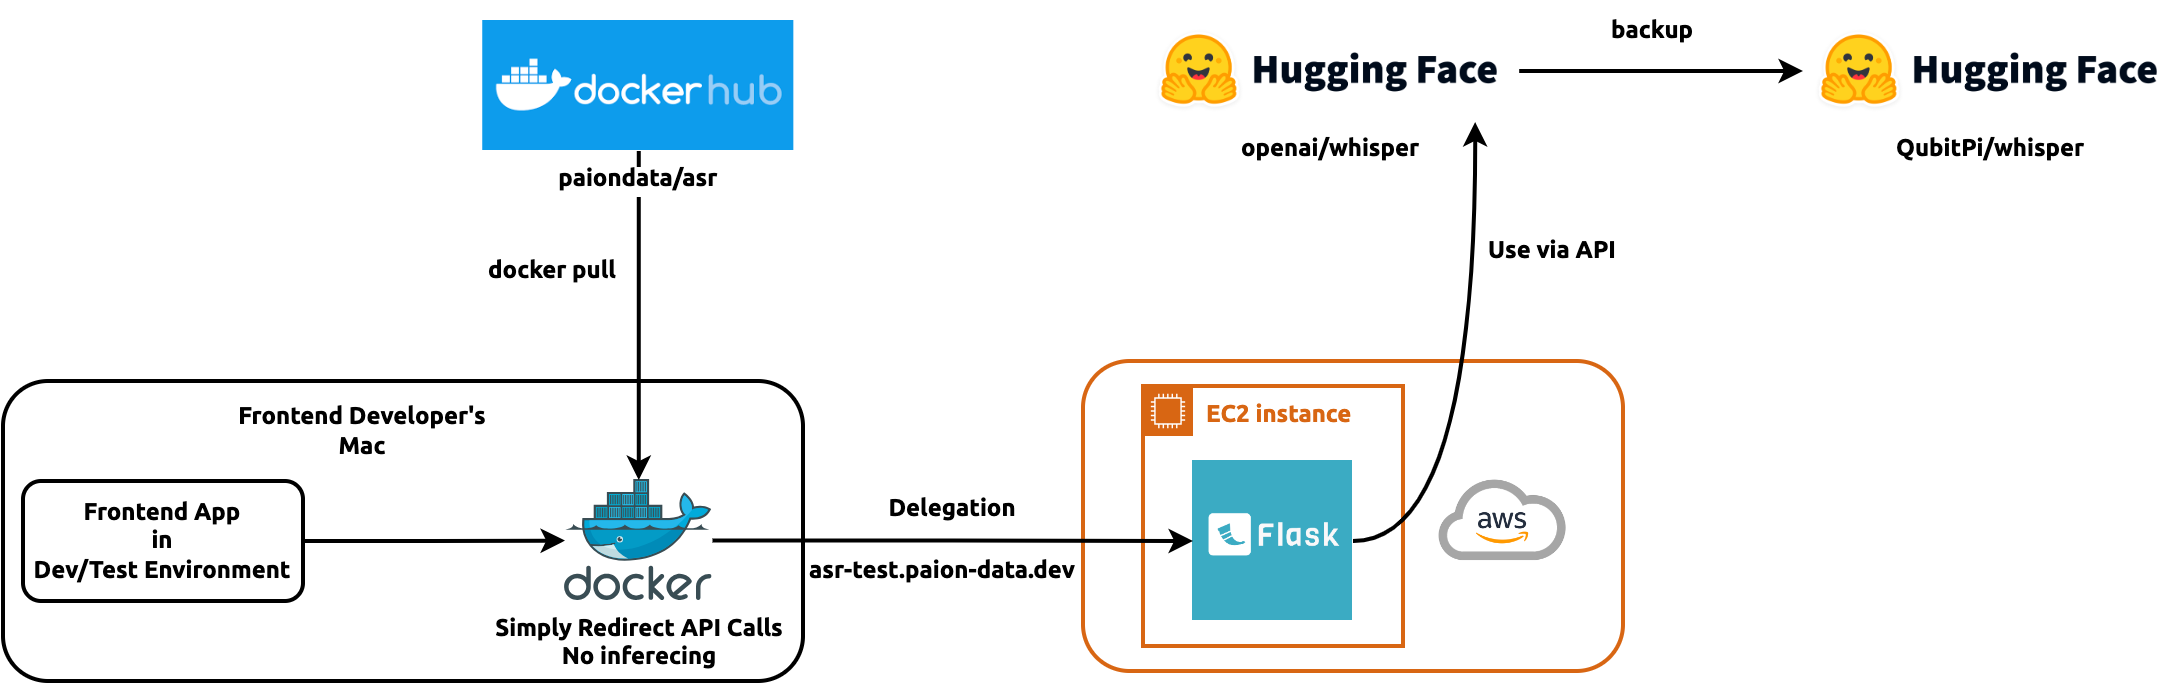
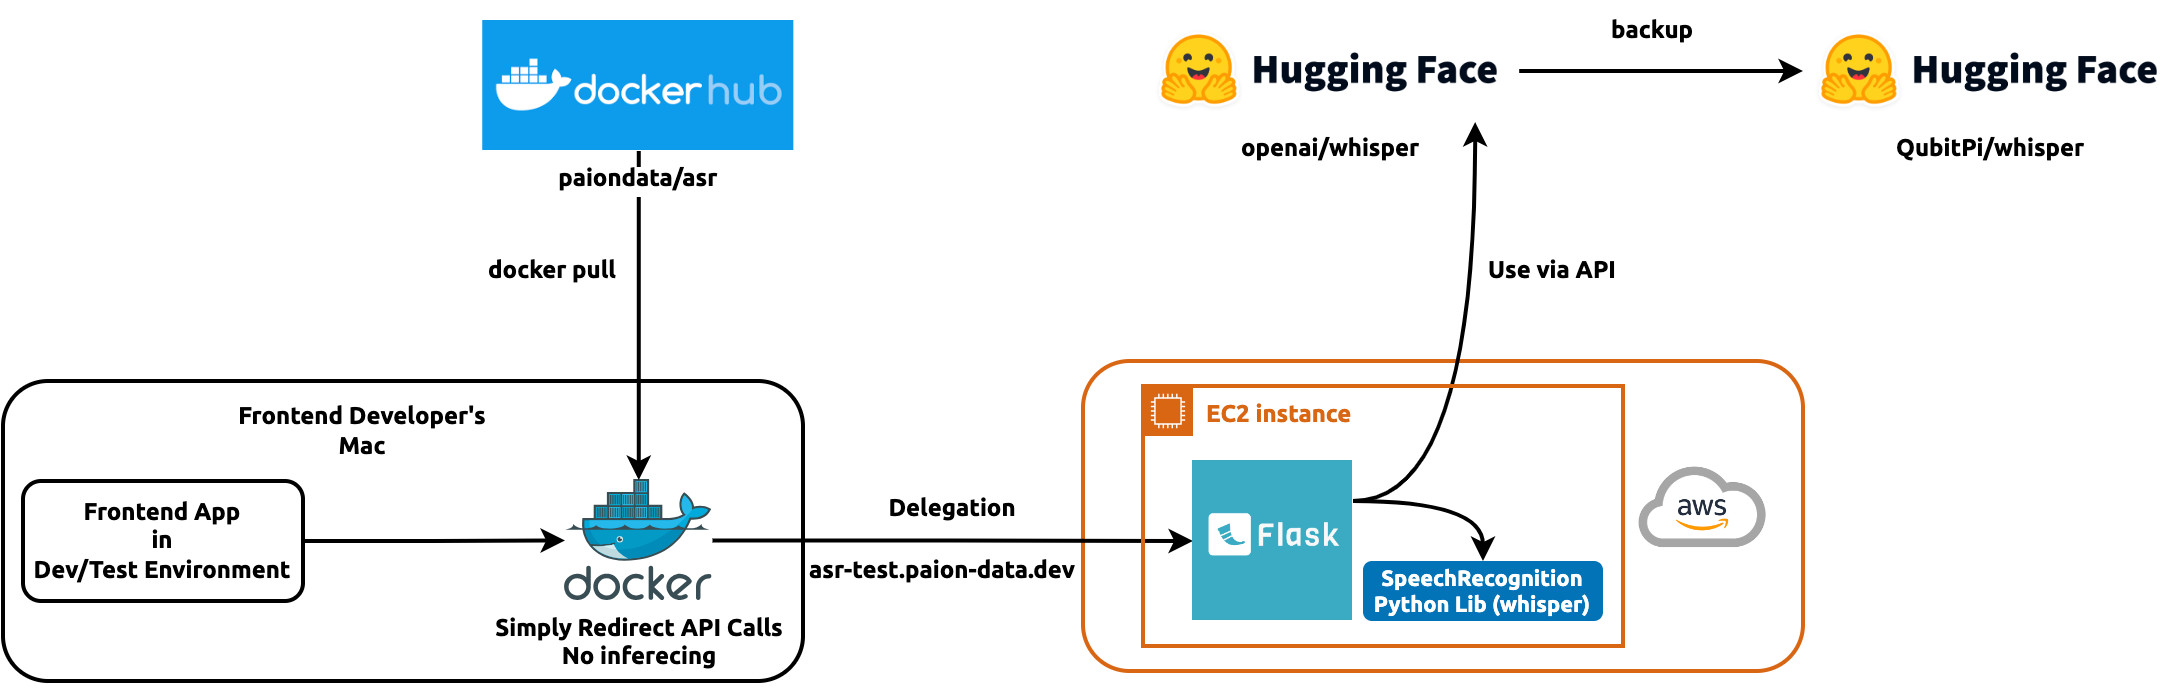
Support multi-model test ASR API

Changed region(s): [[0.6239, 0.4814, 0.8422, 0.9628], [0.7486, 0.6619, 0.811, 0.7822], [0.655, 0.3309, 0.7486, 0.4212]]

diff --git a/test_models/asr/__init__.py b/test_models/asr/__init__.py
@@ -10,6 +10,49 @@ import os
 
 from gradio_client import Client
 
+
+def __inference_by_whisper_space():
+    """
+    Inferencing using https://huggingface.co/spaces/openai/whisper.
+
+    supports wider variety of audio file types, including .wav, and .mp3
+
+    :return: The transcribed audio text in string
+    """
+    f = request.files['audio']
+    f.save(f.filename)
+
+    client = Client("https://openai-whisper.hf.space/")
+    result = client.predict(f.filename, "transcribe", api_name="/predict")
+
+    os.remove(f.filename)
+
+    return result
+
+
+def __inference_by_speech_recognition():
+    """
+    Inferencing using https://github.com/Uberi/speech_recognition
+
+    Supports inferencing beyond whisper, but audio file type is more restricted - support .wav but not .mp3
+
+    :return: The transcribed audio text in string
+    """
+    import speech_recognition as sr
+
+    f = request.files['audio']
+    f.save(f.filename)
+
+    r = sr.Recognizer()
+
+    with sr.AudioFile(f.filename) as source:
+        audio = r.record(source)
+
+    os.remove(f.filename)
+
+    return r.recognize_whisper(audio_data=audio, language="zh")
+
+
 def create_app():
     app = Flask(__name__)
 
@@ -29,16 +72,12 @@ def create_app():
     def hello():
         return "Success", 200
 
-    @app.route("/asr", methods=["POST"])
-    def asr():
-        f = request.files['audio']
-        f.save(f.filename)
+    @app.route("/model1", methods=["POST"])
+    def model1():
+        return __inference_by_whisper_space()
 
-        client = Client("https://openai-whisper.hf.space/")
-        result = client.predict(f.filename, "transcribe", api_name="/predict")
-
-        os.remove(f.filename)
-
-        return jsonify(result)
+    @app.route("/model2", methods=["POST"])
+    def model2():
+        return __inference_by_speech_recognition()
 
     return app

diff --git a/test_models/asr/README.md b/test_models/asr/README.md
@@ -3,10 +3,15 @@ ASR REST API for [Frontend Dev](https://github.com/paion-data/dental-llm-web-app
 
 ![Error loading frontend-dev-design.png](../../img/frontend-dev-design.png)
 
-- [openai/whisper](https://huggingface.co/spaces/openai/whisper)
+- 3 "models" are offered in this API
 
-  - This is an un-fine tuned official model
-  - [QubitPi backup](https://huggingface.co/spaces/QubitPi/whisper)
+  1. [openai/whisper](https://huggingface.co/spaces/openai/whisper)
+
+     - This is an un-fine tuned official model
+     - [QubitPi backup](https://huggingface.co/spaces/QubitPi/whisper)
+
+  2. [SpeechRecognition Python Library (Whisper recognizer)](https://github.com/QubitPi/speech_recognition)
+  3. **Beta-testing trained model** (Developing...)
 
 - The reason is to completely hide confidential technology and offers a consistent API layer 
 
@@ -43,8 +48,7 @@ gunicorn \
 > generate curl for us
 
 ```console
-curl --location 'localhost:8000/asr' \
---form 'audio=@"/abs/path/to/test.mp3"'
+curl --location 'localhost:8000/model1' --form 'audio=@"/abs/path/to/test.mp3"'
 ```
 
 #### Deployment (Manual)
